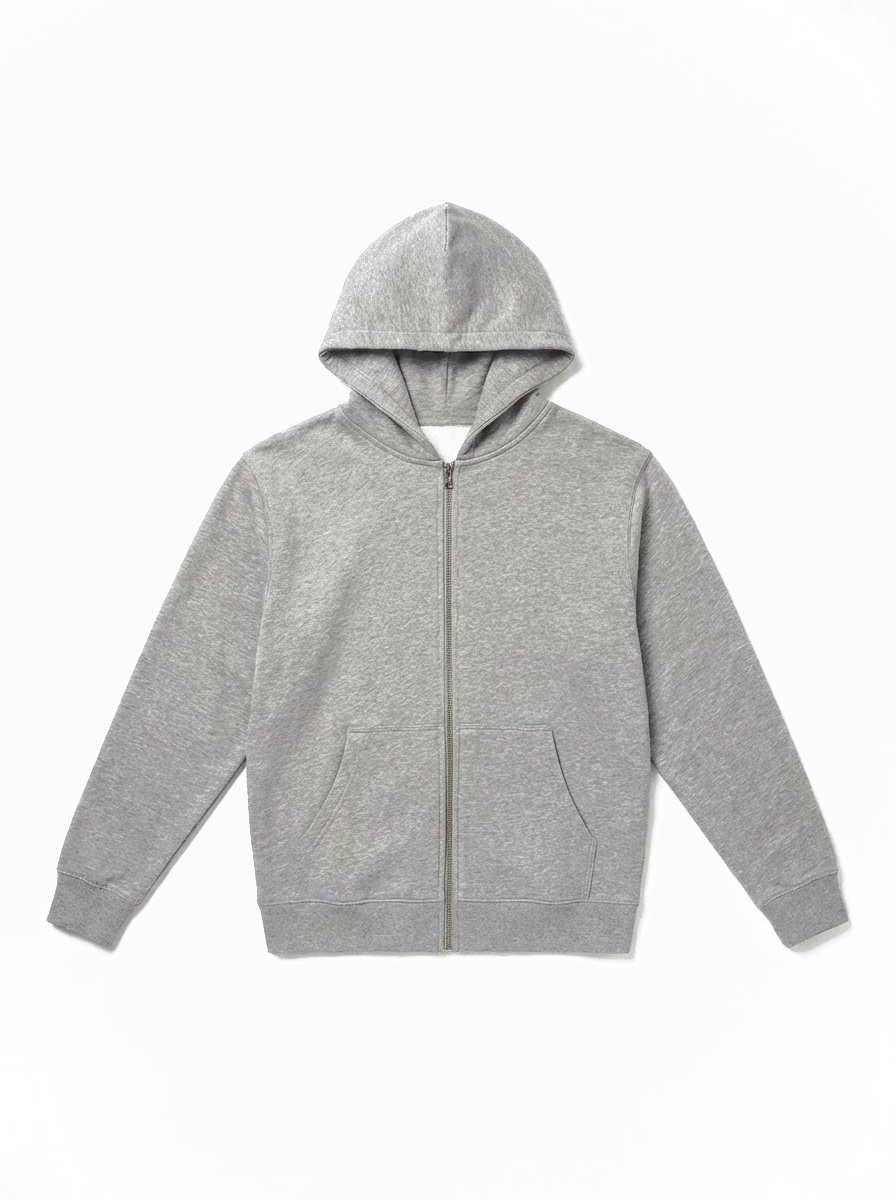
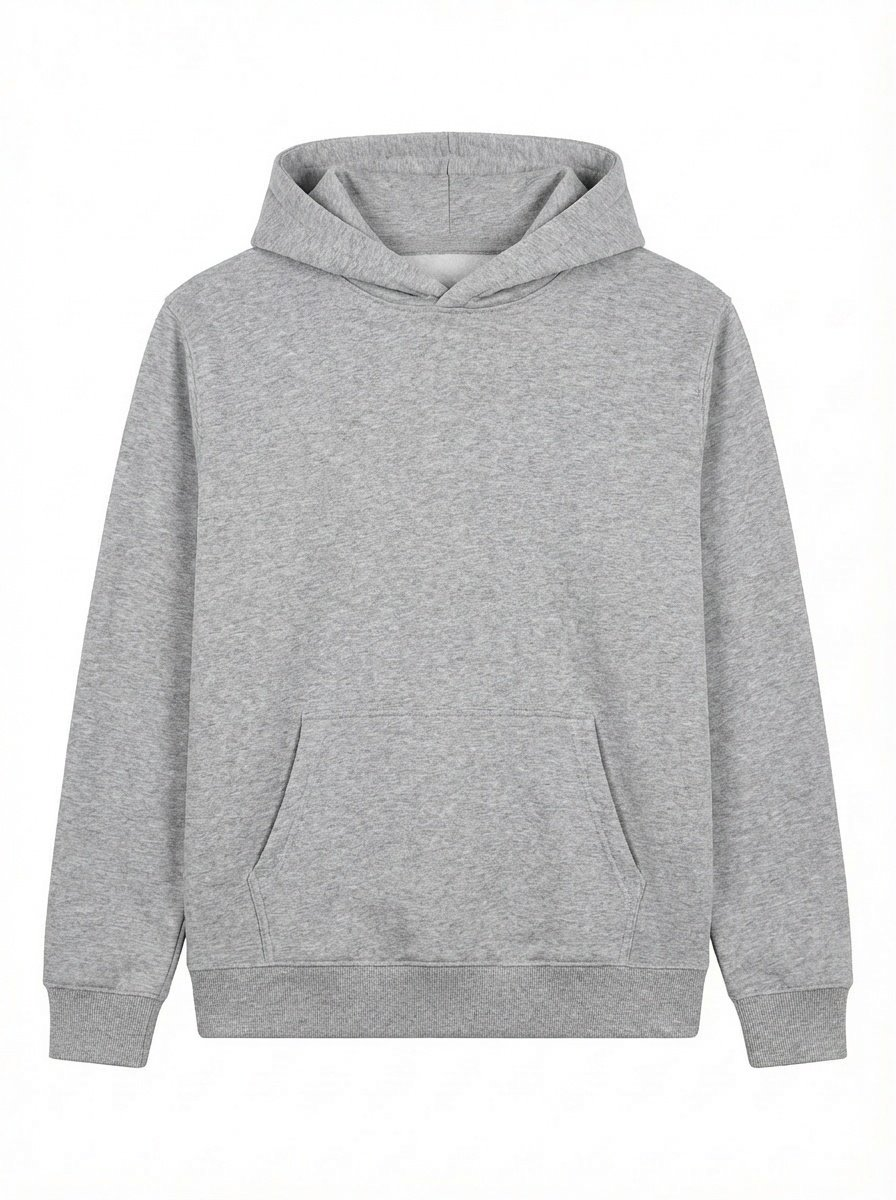
Major update: Save all Shopify images locally, fix pullover hoodie, tank hover flip, GNF sticker
- Replaced all Shopify CDN image URLs with local files (57 images saved permanently)
- Women's tanks (w1-w6) now have backImage for front/back hover flip (same as men's products)
- Fixed pullover hoodie builder images: replaced zip-up hoodie images with proper pullover (no zipper)
- Moved GNF sticker up 2 inches on landing page (bottom: 1% -> 22% desktop, 18% mobile)
- All product images optimized to 800x800px for web in /images/products/web/
- Removed Shopify CDN preconnect and CSP references
- Original Shopify images preserved in /images/products/shop/ as backup

diff --git a/src/data/catalog.ts b/src/data/catalog.ts
@@ -257,70 +257,70 @@ export const placements = [
 // type: 'garment' = clothing/hats (shows size→color flow), 'decal' = stickers/decals (shows expanded view)
 // MENS CLOTHING - T-Shirts and Hoodies
 export const mensClothing = [
-  { id: 'm1', title: 'MYOB Hoodie', vendor: 'Hillbilly Fightwear', price: '$50.00', priceNum: 50, image: 'https://cdn.shopify.com/s/files/1/2978/1770/files/Screenshot2025-12-05at1.50.03PM_6c519925-dfd5-4982-b8c8-c01f4c572668.png?v=1764960913', backImage: 'https://cdn.shopify.com/s/files/1/2978/1770/files/Screenshot2025-12-05at1.50.08PM_82ce9750-4bba-4e44-b533-666d0dc8c5e2.png?v=1764960913', type: 'garment', garmentType: 'hoodie', sizes: ['S','M','L','XL','XXL'], colors: ['Black','White','Grey'], styles: ['Pullover','Zip-Up'], graphicId: 'myob', backGraphicId: 'hfw-black-shadow' },
-  { id: 'm2', title: 'Thump a Stranger Hoodie', vendor: 'Hillbilly Fightwear', price: '$50.00', priceNum: 50, image: 'https://cdn.shopify.com/s/files/1/2978/1770/files/Screenshot2025-12-05at1.39.09PM.png?v=1764959976', backImage: 'https://cdn.shopify.com/s/files/1/2978/1770/files/Screenshot2025-12-05at1.39.02PM_7c0866cc-922e-4451-8e52-8ca719fa3503.png?v=1764960040', type: 'garment', garmentType: 'hoodie', sizes: ['S','M','L','XL','XXL'], colors: ['Black','White','Grey'], styles: ['Pullover','Zip-Up'], graphicId: 'thump-a-stranger', backGraphicId: 'hfw-black-shadow' },
-  { id: 'm3', title: 'T-Shirt - HFW Classic', vendor: 'Hillbilly Fightwear', price: '$30.00', priceNum: 30, image: 'https://cdn.shopify.com/s/files/1/2978/1770/products/hfwf.png?v=1541520222', backImage: 'https://cdn.shopify.com/s/files/1/2978/1770/products/hfwb.png?v=1541520223', type: 'garment', garmentType: 'tshirt', sizes: ['S','M','L','XL','XXL','XXXL'], colors: ['Black','White','Grey'], graphicId: 'hfw-logo' },
-  { id: 'm4', title: 'T-Shirt - YYCF', vendor: 'Hillbilly Fightwear', price: '$30.00', priceNum: 30, image: 'https://cdn.shopify.com/s/files/1/2978/1770/products/yycf.png?v=1541520348', backImage: 'https://cdn.shopify.com/s/files/1/2978/1770/products/yycb.png?v=1541520367', type: 'garment', garmentType: 'tshirt', sizes: ['S','M','L','XL','XXL','XXXL'], colors: ['Black','White','Grey'], graphicId: 'yycf-logo' },
-  { id: 'm5', title: 'T-Shirt - Fun Ride', vendor: 'Hillbilly Fightwear', price: '$30.00', priceNum: 30, image: 'https://cdn.shopify.com/s/files/1/2978/1770/products/funf.png?v=1541520465', backImage: 'https://cdn.shopify.com/s/files/1/2978/1770/products/funb.png?v=1541520466', type: 'garment', garmentType: 'tshirt', sizes: ['S','M','L','XL','XXL','XXXL'], colors: ['Black','White','Grey'], graphicId: 'fun-logo' },
-  { id: 'm6', title: 'T-Shirt - GNF', vendor: 'Hillbilly Fightwear', price: '$30.00', priceNum: 30, image: 'https://cdn.shopify.com/s/files/1/2978/1770/products/gnff.png?v=1541520600', backImage: 'https://cdn.shopify.com/s/files/1/2978/1770/products/gnfb.png?v=1541520603', type: 'garment', garmentType: 'tshirt', sizes: ['S','M','L','XL','XXL','XXXL'], colors: ['Black','White','Grey'], graphicId: 'gnf' },
-  { id: 'm7', title: 'T-Shirt - Human Cockfighter', vendor: 'Hillbilly Fightwear', price: '$30.00', priceNum: 30, image: 'https://cdn.shopify.com/s/files/1/2978/1770/products/hcff.png?v=1541521169', backImage: 'https://cdn.shopify.com/s/files/1/2978/1770/products/hcfb.png?v=1541521172', type: 'garment', garmentType: 'tshirt', sizes: ['S','M','L','XL','XXL','XXXL'], colors: ['Black','White','Grey'], graphicId: 'human-cockfighter' },
-  { id: 'm8', title: 'T-Shirt - Thump a Stranger', vendor: 'Hillbilly Fightwear', price: '$30.00', priceNum: 30, image: 'https://cdn.shopify.com/s/files/1/2978/1770/products/thumpf.png?v=1541521247', backImage: 'https://cdn.shopify.com/s/files/1/2978/1770/products/thumpb.png?v=1541521249', type: 'garment', garmentType: 'tshirt', sizes: ['S','M','L','XL','XXL','XXXL'], colors: ['Black','White','Grey'], graphicId: 'thump-a-stranger' },
-  { id: 'm9', title: 'T-Shirt - WIMB', vendor: 'Hillbilly Fightwear', price: '$30.00', priceNum: 30, image: 'https://cdn.shopify.com/s/files/1/2978/1770/products/wimb.png?v=1541521448', backImage: 'https://cdn.shopify.com/s/files/1/2978/1770/products/wimf.png?v=1541521460', type: 'garment', garmentType: 'tshirt', sizes: ['S','M','L','XL','XXL','XXXL'], colors: ['Black','White','Grey'], graphicId: 'wimb' },
-  { id: 'm10', title: 'T-Shirt - Cling to Guns', vendor: 'Hillbilly Fightwear', price: '$30.00', priceNum: 30, image: 'https://cdn.shopify.com/s/files/1/2978/1770/products/FullSizeRender.jpg?v=1593877737', backImage: 'https://cdn.shopify.com/s/files/1/2978/1770/products/RenderedImage.jpg?v=1593877737', type: 'garment', garmentType: 'tshirt', sizes: ['S','M','L','XL','XXL','XXXL'], colors: ['Black','White','Grey'], graphicId: 'cling-to-guns' },
-  { id: 'm11', title: 'T-Shirt - MYOB', vendor: 'Hillbilly Fightwear', price: '$30.00', priceNum: 30, image: 'https://cdn.shopify.com/s/files/1/2978/1770/products/myobf_1a40e805-dc40-4499-a8f7-b35cb8876393.png?v=1544660076', backImage: 'https://cdn.shopify.com/s/files/1/2978/1770/products/myobb_a3a36653-97d2-48ba-a3ef-b2960ac5b092.png?v=1544660078', type: 'garment', garmentType: 'tshirt', sizes: ['S','M','L','XL','XXL','XXXL'], colors: ['Black','White','Grey'], graphicId: 'myob' },
+  { id: 'm1', title: 'MYOB Hoodie', vendor: 'Hillbilly Fightwear', price: '$50.00', priceNum: 50, image: '/images/products/web/m1-myob-hoodie-front.png', backImage: '/images/products/web/m1-myob-hoodie-back.png', type: 'garment', garmentType: 'hoodie', sizes: ['S','M','L','XL','XXL'], colors: ['Black','White','Grey'], styles: ['Pullover','Zip-Up'], graphicId: 'myob', backGraphicId: 'hfw-black-shadow' },
+  { id: 'm2', title: 'Thump a Stranger Hoodie', vendor: 'Hillbilly Fightwear', price: '$50.00', priceNum: 50, image: '/images/products/web/m2-thump-hoodie-front.png', backImage: '/images/products/web/m2-thump-hoodie-back.png', type: 'garment', garmentType: 'hoodie', sizes: ['S','M','L','XL','XXL'], colors: ['Black','White','Grey'], styles: ['Pullover','Zip-Up'], graphicId: 'thump-a-stranger', backGraphicId: 'hfw-black-shadow' },
+  { id: 'm3', title: 'T-Shirt - HFW Classic', vendor: 'Hillbilly Fightwear', price: '$30.00', priceNum: 30, image: '/images/products/web/m3-hfw-classic-front.png', backImage: '/images/products/web/m3-hfw-classic-back.png', type: 'garment', garmentType: 'tshirt', sizes: ['S','M','L','XL','XXL','XXXL'], colors: ['Black','White','Grey'], graphicId: 'hfw-logo' },
+  { id: 'm4', title: 'T-Shirt - YYCF', vendor: 'Hillbilly Fightwear', price: '$30.00', priceNum: 30, image: '/images/products/web/m4-yycf-front.png', backImage: '/images/products/web/m4-yycf-back.png', type: 'garment', garmentType: 'tshirt', sizes: ['S','M','L','XL','XXL','XXXL'], colors: ['Black','White','Grey'], graphicId: 'yycf-logo' },
+  { id: 'm5', title: 'T-Shirt - Fun Ride', vendor: 'Hillbilly Fightwear', price: '$30.00', priceNum: 30, image: '/images/products/web/m5-fun-ride-front.png', backImage: '/images/products/web/m5-fun-ride-back.png', type: 'garment', garmentType: 'tshirt', sizes: ['S','M','L','XL','XXL','XXXL'], colors: ['Black','White','Grey'], graphicId: 'fun-logo' },
+  { id: 'm6', title: 'T-Shirt - GNF', vendor: 'Hillbilly Fightwear', price: '$30.00', priceNum: 30, image: '/images/products/web/m6-gnf-front.png', backImage: '/images/products/web/m6-gnf-back.png', type: 'garment', garmentType: 'tshirt', sizes: ['S','M','L','XL','XXL','XXXL'], colors: ['Black','White','Grey'], graphicId: 'gnf' },
+  { id: 'm7', title: 'T-Shirt - Human Cockfighter', vendor: 'Hillbilly Fightwear', price: '$30.00', priceNum: 30, image: '/images/products/web/m7-hcf-front.png', backImage: '/images/products/web/m7-hcf-back.png', type: 'garment', garmentType: 'tshirt', sizes: ['S','M','L','XL','XXL','XXXL'], colors: ['Black','White','Grey'], graphicId: 'human-cockfighter' },
+  { id: 'm8', title: 'T-Shirt - Thump a Stranger', vendor: 'Hillbilly Fightwear', price: '$30.00', priceNum: 30, image: '/images/products/web/m8-thump-front.png', backImage: '/images/products/web/m8-thump-back.png', type: 'garment', garmentType: 'tshirt', sizes: ['S','M','L','XL','XXL','XXXL'], colors: ['Black','White','Grey'], graphicId: 'thump-a-stranger' },
+  { id: 'm9', title: 'T-Shirt - WIMB', vendor: 'Hillbilly Fightwear', price: '$30.00', priceNum: 30, image: '/images/products/web/m9-wimb-front.png', backImage: '/images/products/web/m9-wimb-back.png', type: 'garment', garmentType: 'tshirt', sizes: ['S','M','L','XL','XXL','XXXL'], colors: ['Black','White','Grey'], graphicId: 'wimb' },
+  { id: 'm10', title: 'T-Shirt - Cling to Guns', vendor: 'Hillbilly Fightwear', price: '$30.00', priceNum: 30, image: '/images/products/web/m10-cling-guns-front.png', backImage: '/images/products/web/m10-cling-guns-back.png', type: 'garment', garmentType: 'tshirt', sizes: ['S','M','L','XL','XXL','XXXL'], colors: ['Black','White','Grey'], graphicId: 'cling-to-guns' },
+  { id: 'm11', title: 'T-Shirt - MYOB', vendor: 'Hillbilly Fightwear', price: '$30.00', priceNum: 30, image: '/images/products/web/m11-myob-front.png', backImage: '/images/products/web/m11-myob-back.png', type: 'garment', garmentType: 'tshirt', sizes: ['S','M','L','XL','XXL','XXXL'], colors: ['Black','White','Grey'], graphicId: 'myob' },
   { id: 'm12', title: 'Staunch Properties - CHM Edition', vendor: 'Hillbilly Fightwear', price: '$30.00', priceNum: 30, image: '/images/products/chm-front-web.png', backImage: '/images/products/chm-back-web.png', type: 'garment', garmentType: 'tshirt', sizes: ['S','M','L','XL','XXL','XXXL'], colors: ['Black','White','Grey'], graphicId: 'staunch-chm' },
-  { id: 'm13', title: 'T-Shirt - Goodwood', vendor: 'Hillbilly Fightwear', price: '$30.00', priceNum: 30, image: 'https://cdn.shopify.com/s/files/1/2978/1770/products/Screen_Shot_2018-11-15_at_6.55.18_PM.png?v=1542327315', backImage: 'https://cdn.shopify.com/s/files/1/2978/1770/products/Screen_Shot_2018-11-15_at_6.55.30_PM.png?v=1542327348', type: 'garment', garmentType: 'tshirt', sizes: ['S','M','L','XL','XXL','XXXL'], colors: ['Black','White','Grey'] }
+  { id: 'm13', title: 'T-Shirt - Goodwood', vendor: 'Hillbilly Fightwear', price: '$30.00', priceNum: 30, image: '/images/products/web/m13-goodwood-front.png', backImage: '/images/products/web/m13-goodwood-back.png', type: 'garment', garmentType: 'tshirt', sizes: ['S','M','L','XL','XXL','XXXL'], colors: ['Black','White','Grey'] }
 ]
 
 // WOMENS CLOTHING - Tank Tops
 // Pink color option is available with garment preview images (pink-tinted variants)
 export const womensClothing = [
-  { id: 'w1', title: "Women's Tank - It's A Fun Ride", vendor: 'Hillbilly Fightwear', price: '$30.00', priceNum: 30, image: 'https://cdn.shopify.com/s/files/1/2978/1770/products/Screen_Shot_2019-04-30_at_11.20.06_PM.png?v=1556680844', type: 'garment', garmentType: 'tank-womens', sizes: ['S','M','L','XL'], colors: ['Black','White'], graphicId: 'fun-logo' },
-  { id: 'w2', title: "Women's Tank - HFW", vendor: 'Hillbilly Fightwear', price: '$30.00', priceNum: 30, image: 'https://cdn.shopify.com/s/files/1/2978/1770/products/Screen_Shot_2019-04-30_at_11.21.43_PM.png?v=1556681023', type: 'garment', garmentType: 'tank-womens', sizes: ['S','M','L','XL'], colors: ['Black','White'], graphicId: 'hfw-logo' },
-  { id: 'w3', title: "Women's Tank - Thump a Stranger", vendor: 'Hillbilly Fightwear', price: '$30.00', priceNum: 30, image: 'https://cdn.shopify.com/s/files/1/2978/1770/products/Screen_Shot_2019-04-30_at_11.25.19_PM.png?v=1556681368', type: 'garment', garmentType: 'tank-womens', sizes: ['S','M','L','XL'], colors: ['Black','White'], graphicId: 'thump-a-stranger' },
-  { id: 'w4', title: "Women's Tank - Thumpin Is Lovin", vendor: 'Hillbilly Fightwear', price: '$30.00', priceNum: 30, image: 'https://cdn.shopify.com/s/files/1/2978/1770/products/Screen_Shot_2019-04-30_at_11.25.41_PM.png?v=1556681516', type: 'garment', garmentType: 'tank-womens', sizes: ['S','M','L','XL'], colors: ['Black','White'], graphicId: 'thumpin-is-lovin-pink' },
-  { id: 'w5', title: "Women's Tank - Yes You Can", vendor: 'Hillbilly Fightwear', price: '$30.00', priceNum: 30, image: 'https://cdn.shopify.com/s/files/1/2978/1770/products/Screen_Shot_2019-04-30_at_11.33.06_PM.png?v=1556681691', type: 'garment', garmentType: 'tank-womens', sizes: ['S','M','L','XL'], colors: ['Black','White'], graphicId: 'yes-you-can' },
-  { id: 'w6', title: "Women's Tank - GNF", vendor: 'Hillbilly Fightwear', price: '$30.00', priceNum: 30, image: 'https://cdn.shopify.com/s/files/1/2978/1770/products/GNF_-_tank_-_10_15.jpg?v=1556681770', type: 'garment', garmentType: 'tank-womens', sizes: ['S','M','L','XL'], colors: ['Black','White'], graphicId: 'gnf' }
+  { id: 'w1', title: "Women's Tank - It's A Fun Ride", vendor: 'Hillbilly Fightwear', price: '$30.00', priceNum: 30, image: '/images/products/web/w1-fun-ride-tank.png', backImage: '/images/products/web/m5-fun-ride-back.png', type: 'garment', garmentType: 'tank-womens', sizes: ['S','M','L','XL'], colors: ['Black','White'], graphicId: 'fun-logo' },
+  { id: 'w2', title: "Women's Tank - HFW", vendor: 'Hillbilly Fightwear', price: '$30.00', priceNum: 30, image: '/images/products/web/w2-hfw-tank.png', backImage: '/images/products/web/m3-hfw-classic-back.png', type: 'garment', garmentType: 'tank-womens', sizes: ['S','M','L','XL'], colors: ['Black','White'], graphicId: 'hfw-logo' },
+  { id: 'w3', title: "Women's Tank - Thump a Stranger", vendor: 'Hillbilly Fightwear', price: '$30.00', priceNum: 30, image: '/images/products/web/w3-thump-tank.png', backImage: '/images/products/web/m8-thump-back.png', type: 'garment', garmentType: 'tank-womens', sizes: ['S','M','L','XL'], colors: ['Black','White'], graphicId: 'thump-a-stranger' },
+  { id: 'w4', title: "Women's Tank - Thumpin Is Lovin", vendor: 'Hillbilly Fightwear', price: '$30.00', priceNum: 30, image: '/images/products/web/w4-thumpin-tank.png', backImage: '/images/products/web/d7-back-thumpin.png', type: 'garment', garmentType: 'tank-womens', sizes: ['S','M','L','XL'], colors: ['Black','White'], graphicId: 'thumpin-is-lovin-pink' },
+  { id: 'w5', title: "Women's Tank - Yes You Can", vendor: 'Hillbilly Fightwear', price: '$30.00', priceNum: 30, image: '/images/products/web/w5-yesyoucan-tank.png', backImage: '/images/products/web/d10-back-yesyoucan.png', type: 'garment', garmentType: 'tank-womens', sizes: ['S','M','L','XL'], colors: ['Black','White'], graphicId: 'yes-you-can' },
+  { id: 'w6', title: "Women's Tank - GNF", vendor: 'Hillbilly Fightwear', price: '$30.00', priceNum: 30, image: '/images/products/web/w6-gnf-tank.png', backImage: '/images/products/web/m6-gnf-back.png', type: 'garment', garmentType: 'tank-womens', sizes: ['S','M','L','XL'], colors: ['Black','White'], graphicId: 'gnf' }
 ]
 
 // KIDS CLOTHING - Youth Hoodie
 export const kidsClothing = [
-  { id: 'k1', title: 'Youth Hoodie', vendor: 'Hillbilly Fightwear', price: '$50.00', priceNum: 50, image: 'https://cdn.shopify.com/s/files/1/2978/1770/files/Screenshot2025-12-05at1.50.03PM.png?v=1764960668', backImage: 'https://cdn.shopify.com/s/files/1/2978/1770/files/Screenshot2025-12-05at1.50.08PM.png?v=1764960670', type: 'garment', garmentType: 'hoodie', sizes: ['YS','YM','YL'], colors: ['Black','White','Grey'], styles: ['Pullover','Zip-Up'], graphicId: 'hfw-black-shadow', backGraphicId: 'hfw-logo' }
+  { id: 'k1', title: 'Youth Hoodie', vendor: 'Hillbilly Fightwear', price: '$50.00', priceNum: 50, image: '/images/products/web/k1-youth-hoodie-front.png', backImage: '/images/products/web/k1-youth-hoodie-back.png', type: 'garment', garmentType: 'hoodie', sizes: ['YS','YM','YL'], colors: ['Black','White','Grey'], styles: ['Pullover','Zip-Up'], graphicId: 'hfw-black-shadow', backGraphicId: 'hfw-logo' }
 ]
 
 // HATS - Trucker Hats and Beanies
 export const hats = [
-  { id: 'h1', title: 'Beanie', vendor: 'Hillbilly Fightwear', price: '$25.00', priceNum: 25, image: 'https://cdn.shopify.com/s/files/1/2978/1770/files/Screenshot2025-12-05at1.59.43PM.png?v=1764961239', type: 'garment', garmentType: 'beanie', sizes: ['One Size'], colors: ['Black','Grey','White'] },
-  { id: 'h2', title: 'Fitted Hat - GNF White', vendor: 'Hillbilly Fightwear', price: '$45.00', priceNum: 45, image: 'https://cdn.shopify.com/s/files/1/2978/1770/products/GNF_Hat_-white.jpg?v=1544660186', type: 'garment', garmentType: 'trucker-hat', sizes: ['S/M','L/XL'], colors: ['White'] },
-  { id: 'h3', title: 'Fitted Hat - GNF Black', vendor: 'Hillbilly Fightwear', price: '$45.00', priceNum: 45, image: 'https://cdn.shopify.com/s/files/1/2978/1770/products/GNF_Hat_site_pic.jpg?v=1544660239', type: 'garment', garmentType: 'trucker-hat', sizes: ['S/M','L/XL'], colors: ['Black'] },
-  { id: 'h4', title: 'Fitted Hat - Cockfighter', vendor: 'Hillbilly Fightwear', price: '$45.00', priceNum: 45, image: 'https://cdn.shopify.com/s/files/1/2978/1770/products/cockfighter_fitted.jpg?v=1556679360', type: 'garment', garmentType: 'trucker-hat', sizes: ['S/M','L/XL'], colors: ['Black'] },
-  { id: 'h5', title: 'Fitted Hat - HFW', vendor: 'Hillbilly Fightwear', price: '$45.00', priceNum: 45, image: 'https://cdn.shopify.com/s/files/1/2978/1770/products/HFW_fitted.jpg?v=1556679540', type: 'garment', garmentType: 'trucker-hat', sizes: ['S/M','L/XL'], colors: ['Black'] },
-  { id: 'h6', title: 'Adjustable Hat - Hard Hittin', vendor: 'Hillbilly Fightwear', price: '$35.00', priceNum: 35, image: 'https://cdn.shopify.com/s/files/1/2978/1770/products/IMG_6519.JPG?v=1559137929', type: 'garment', garmentType: 'trucker-hat', sizes: ['One Size'], colors: ['Black'] },
-  { id: 'h7', title: 'Adjustable Hat - Fun Ride', vendor: 'Hillbilly Fightwear', price: '$35.00', priceNum: 35, image: 'https://cdn.shopify.com/s/files/1/2978/1770/products/It_s_A_Fun_Ride_adjustable_trucker.jpg?v=1556678568', type: 'garment', garmentType: 'trucker-hat', sizes: ['One Size'], colors: ['Black','White'] },
-  { id: 'h8', title: 'Adjustable Hat - HFW', vendor: 'Hillbilly Fightwear', price: '$35.00', priceNum: 35, image: 'https://cdn.shopify.com/s/files/1/2978/1770/products/HFW_adjusted.jpg?v=1556679508', type: 'garment', garmentType: 'trucker-hat', sizes: ['One Size'], colors: ['Black'] },
-  { id: 'h9', title: 'Adjustable Hat - Cockfighter', vendor: 'Hillbilly Fightwear', price: '$35.00', priceNum: 35, image: 'https://cdn.shopify.com/s/files/1/2978/1770/products/cockfigher_adjustable.jpg?v=1556679321', type: 'garment', garmentType: 'trucker-hat', sizes: ['One Size'], colors: ['Black'] },
-  { id: 'h10', title: 'Adjustable Hat - GNF', vendor: 'Hillbilly Fightwear', price: '$35.00', priceNum: 35, image: 'https://cdn.shopify.com/s/files/1/2978/1770/products/GNF_adjustable_trucker.jpg?v=1556678861', type: 'garment', garmentType: 'trucker-hat', sizes: ['One Size'], colors: ['Black','White'] },
-  { id: 'h11', title: 'Adjustable Hat - Cockfighter Grey', vendor: 'Hillbilly Fightwear', price: '$35.00', priceNum: 35, image: 'https://cdn.shopify.com/s/files/1/2978/1770/products/IMG_4304.JPG?v=1559137530', type: 'garment', garmentType: 'trucker-hat', sizes: ['One Size'], colors: ['Grey'] },
-  { id: 'h12', title: 'Adjustable Hat - Cockfighter Black', vendor: 'Hillbilly Fightwear', price: '$35.00', priceNum: 35, image: 'https://cdn.shopify.com/s/files/1/2978/1770/products/IMG_1265.JPG?v=1559137825', type: 'garment', garmentType: 'trucker-hat', sizes: ['One Size'], colors: ['Black'] },
-  { id: 'h13', title: 'Fitted Hat - GNF Patriotic', vendor: 'Hillbilly Fightwear', price: '$45.00', priceNum: 45, image: 'https://cdn.shopify.com/s/files/1/2978/1770/products/IMG_9227.JPG?v=1559137116', type: 'garment', garmentType: 'trucker-hat', sizes: ['S/M','L/XL'], colors: ['Black'] },
+  { id: 'h1', title: 'Beanie', vendor: 'Hillbilly Fightwear', price: '$25.00', priceNum: 25, image: '/images/products/web/h1-beanie.png', type: 'garment', garmentType: 'beanie', sizes: ['One Size'], colors: ['Black','Grey','White'] },
+  { id: 'h2', title: 'Fitted Hat - GNF White', vendor: 'Hillbilly Fightwear', price: '$45.00', priceNum: 45, image: '/images/products/web/h2-gnf-white-fitted.png', type: 'garment', garmentType: 'trucker-hat', sizes: ['S/M','L/XL'], colors: ['White'] },
+  { id: 'h3', title: 'Fitted Hat - GNF Black', vendor: 'Hillbilly Fightwear', price: '$45.00', priceNum: 45, image: '/images/products/web/h3-gnf-black-fitted.png', type: 'garment', garmentType: 'trucker-hat', sizes: ['S/M','L/XL'], colors: ['Black'] },
+  { id: 'h4', title: 'Fitted Hat - Cockfighter', vendor: 'Hillbilly Fightwear', price: '$45.00', priceNum: 45, image: '/images/products/web/h4-cockfighter-fitted.png', type: 'garment', garmentType: 'trucker-hat', sizes: ['S/M','L/XL'], colors: ['Black'] },
+  { id: 'h5', title: 'Fitted Hat - HFW', vendor: 'Hillbilly Fightwear', price: '$45.00', priceNum: 45, image: '/images/products/web/h5-hfw-fitted.png', type: 'garment', garmentType: 'trucker-hat', sizes: ['S/M','L/XL'], colors: ['Black'] },
+  { id: 'h6', title: 'Adjustable Hat - Hard Hittin', vendor: 'Hillbilly Fightwear', price: '$35.00', priceNum: 35, image: '/images/products/web/h6-hard-hittin.png', type: 'garment', garmentType: 'trucker-hat', sizes: ['One Size'], colors: ['Black'] },
+  { id: 'h7', title: 'Adjustable Hat - Fun Ride', vendor: 'Hillbilly Fightwear', price: '$35.00', priceNum: 35, image: '/images/products/web/h7-fun-ride-adj.png', type: 'garment', garmentType: 'trucker-hat', sizes: ['One Size'], colors: ['Black','White'] },
+  { id: 'h8', title: 'Adjustable Hat - HFW', vendor: 'Hillbilly Fightwear', price: '$35.00', priceNum: 35, image: '/images/products/web/h8-hfw-adj.png', type: 'garment', garmentType: 'trucker-hat', sizes: ['One Size'], colors: ['Black'] },
+  { id: 'h9', title: 'Adjustable Hat - Cockfighter', vendor: 'Hillbilly Fightwear', price: '$35.00', priceNum: 35, image: '/images/products/web/h9-cockfighter-adj.png', type: 'garment', garmentType: 'trucker-hat', sizes: ['One Size'], colors: ['Black'] },
+  { id: 'h10', title: 'Adjustable Hat - GNF', vendor: 'Hillbilly Fightwear', price: '$35.00', priceNum: 35, image: '/images/products/web/h10-gnf-adj.png', type: 'garment', garmentType: 'trucker-hat', sizes: ['One Size'], colors: ['Black','White'] },
+  { id: 'h11', title: 'Adjustable Hat - Cockfighter Grey', vendor: 'Hillbilly Fightwear', price: '$35.00', priceNum: 35, image: '/images/products/web/h11-cockfighter-grey-adj.png', type: 'garment', garmentType: 'trucker-hat', sizes: ['One Size'], colors: ['Grey'] },
+  { id: 'h12', title: 'Adjustable Hat - Cockfighter Black', vendor: 'Hillbilly Fightwear', price: '$35.00', priceNum: 35, image: '/images/products/web/h12-cockfighter-black-adj.png', type: 'garment', garmentType: 'trucker-hat', sizes: ['One Size'], colors: ['Black'] },
+  { id: 'h13', title: 'Fitted Hat - GNF Patriotic', vendor: 'Hillbilly Fightwear', price: '$45.00', priceNum: 45, image: '/images/products/web/h13-gnf-patriotic-fitted.png', type: 'garment', garmentType: 'trucker-hat', sizes: ['S/M','L/XL'], colors: ['Black'] },
 ]
 
 // DECALS / STICKERS
 // image = local graphic for site display; backImage = Shopify CDN product photography
 export const decals = [
-  { id: 'd1', title: 'Decal - GNF', vendor: 'Hillbilly Fightwear', price: '$7.00', priceNum: 7, image: '/images/stickers/sticker-gnf.png?v=13', backImage: 'https://cdn.shopify.com/s/files/1/2978/1770/files/s10.png?v=1761931324', type: 'decal' },
-  { id: 'd2', title: 'Decal - Cling to Guns', vendor: 'Hillbilly Fightwear', price: '$7.00', priceNum: 7, image: '/images/stickers/sticker-your-neck.png?v=13', backImage: 'https://cdn.shopify.com/s/files/1/2978/1770/files/s1.png?v=1761930946', type: 'decal' },
-  { id: 'd3', title: 'Decal - Human Cockfighter', vendor: 'Hillbilly Fightwear', price: '$7.00', priceNum: 7, image: '/images/stickers/sticker-hcf.png?v=13', backImage: 'https://cdn.shopify.com/s/files/1/2978/1770/files/s2.png?v=1761931036', type: 'decal' },
-  { id: 'd4', title: 'Decal - Fun Ride', vendor: 'Hillbilly Fightwear', price: '$7.00', priceNum: 7, image: '/images/stickers/sticker-fun-ride.png?v=13', backImage: 'https://cdn.shopify.com/s/files/1/2978/1770/files/s3.png?v=1761931065', type: 'decal' },
-  { id: 'd5', title: 'Decal - Put It On Em', vendor: 'Hillbilly Fightwear', price: '$7.00', priceNum: 7, image: '/images/stickers/sticker-put-it-on-em.png?v=15', backImage: 'https://cdn.shopify.com/s/files/1/2978/1770/files/s4.png?v=1761931096', type: 'decal' },
-  { id: 'd6', title: 'Decal - Thump a Stranger', vendor: 'Hillbilly Fightwear', price: '$7.00', priceNum: 7, image: '/images/stickers/sticker-thump.png?v=13', backImage: 'https://cdn.shopify.com/s/files/1/2978/1770/files/s5.png?v=1761931143', type: 'decal' },
-  { id: 'd7', title: 'Decal - Yes You Can', vendor: 'Hillbilly Fightwear', price: '$7.00', priceNum: 7, image: '/images/stickers/sticker-yes-you-can.png?v=13', backImage: 'https://cdn.shopify.com/s/files/1/2978/1770/files/s6.png?v=1761931168', type: 'decal' },
-  { id: 'd8', title: 'Decal - Obama Tap', vendor: 'Hillbilly Fightwear', price: '$7.00', priceNum: 7, image: '/images/stickers/sticker-obama-tap.png?v=13', backImage: 'https://cdn.shopify.com/s/files/1/2978/1770/files/s7.png?v=1761931192', type: 'decal' },
-  { id: 'd9', title: 'Decal - CHM', vendor: 'Hillbilly Fightwear', price: '$7.00', priceNum: 7, image: '/images/stickers/sticker-cunt.png?v=13', backImage: 'https://cdn.shopify.com/s/files/1/2978/1770/files/s8_d2e4786c-9d02-4bc7-bd2a-dab7d55b7007.png?v=1761931285', type: 'decal' },
-  { id: 'd10', title: 'Decal - HFW', vendor: 'Hillbilly Fightwear', price: '$7.00', priceNum: 7, image: '/images/stickers/sticker-hfw.png?v=13', backImage: 'https://cdn.shopify.com/s/files/1/2978/1770/files/s9.png?v=1761931297', type: 'decal' },
+  { id: 'd1', title: 'Decal - GNF', vendor: 'Hillbilly Fightwear', price: '$7.00', priceNum: 7, image: '/images/stickers/sticker-gnf.png?v=13', backImage: '/images/products/web/d1-back-gnf.png', type: 'decal' },
+  { id: 'd2', title: 'Decal - Cling to Guns', vendor: 'Hillbilly Fightwear', price: '$7.00', priceNum: 7, image: '/images/stickers/sticker-your-neck.png?v=13', backImage: '/images/products/web/d2-back-hfw.png', type: 'decal' },
+  { id: 'd3', title: 'Decal - Human Cockfighter', vendor: 'Hillbilly Fightwear', price: '$7.00', priceNum: 7, image: '/images/stickers/sticker-hcf.png?v=13', backImage: '/images/products/web/d3-back-thump.png', type: 'decal' },
+  { id: 'd4', title: 'Decal - Fun Ride', vendor: 'Hillbilly Fightwear', price: '$7.00', priceNum: 7, image: '/images/stickers/sticker-fun-ride.png?v=13', backImage: '/images/products/web/d4-back-funride.png', type: 'decal' },
+  { id: 'd5', title: 'Decal - Put It On Em', vendor: 'Hillbilly Fightwear', price: '$7.00', priceNum: 7, image: '/images/stickers/sticker-put-it-on-em.png?v=15', backImage: '/images/products/web/d5-back-cockfighter.png', type: 'decal' },
+  { id: 'd6', title: 'Decal - Thump a Stranger', vendor: 'Hillbilly Fightwear', price: '$7.00', priceNum: 7, image: '/images/stickers/sticker-thump.png?v=13', backImage: '/images/products/web/d6-back-hcf.png', type: 'decal' },
+  { id: 'd7', title: 'Decal - Yes You Can', vendor: 'Hillbilly Fightwear', price: '$7.00', priceNum: 7, image: '/images/stickers/sticker-yes-you-can.png?v=13', backImage: '/images/products/web/d10-back-yesyoucan.png', type: 'decal' },
+  { id: 'd8', title: 'Decal - Obama Tap', vendor: 'Hillbilly Fightwear', price: '$7.00', priceNum: 7, image: '/images/stickers/sticker-obama-tap.png?v=13', backImage: '/images/products/web/d9-back-myob.png', type: 'decal' },
+  { id: 'd9', title: 'Decal - CHM', vendor: 'Hillbilly Fightwear', price: '$7.00', priceNum: 7, image: '/images/stickers/sticker-cunt.png?v=13', backImage: '/images/products/web/d8-back-chm.png', type: 'decal' },
+  { id: 'd10', title: 'Decal - HFW', vendor: 'Hillbilly Fightwear', price: '$7.00', priceNum: 7, image: '/images/stickers/sticker-hfw.png?v=13', backImage: '/images/products/web/d1-back-gnf.png', type: 'decal' },
   { id: 'd11', title: 'Decal - GNF Red/Blue', vendor: 'Hillbilly Fightwear', price: '$7.00', priceNum: 7, image: '/images/stickers/sticker-gnf-redblue.png?v=15', type: 'decal' },
-  { id: 'd12', title: 'Decal - Thumpin Is Lovin', vendor: 'Hillbilly Fightwear', price: '$7.00', priceNum: 7, image: '/images/stickers/sticker-thumpin-is-lovin.png?v=13', backImage: 'https://cdn.shopify.com/s/files/1/2978/1770/files/s11.png?v=1761931349', type: 'decal' },
-  { id: 'd13', title: 'Decal - Good for Community', vendor: 'Hillbilly Fightwear', price: '$7.00', priceNum: 7, image: '/images/stickers/sticker-community.png?v=13', backImage: 'https://cdn.shopify.com/s/files/1/2978/1770/files/g1.png?v=1762085215', type: 'decal' },
+  { id: 'd12', title: 'Decal - Thumpin Is Lovin', vendor: 'Hillbilly Fightwear', price: '$7.00', priceNum: 7, image: '/images/stickers/sticker-thumpin-is-lovin.png?v=13', backImage: '/images/products/web/d7-back-thumpin.png', type: 'decal' },
+  { id: 'd13', title: 'Decal - Good for Community', vendor: 'Hillbilly Fightwear', price: '$7.00', priceNum: 7, image: '/images/stickers/sticker-community.png?v=13', backImage: '/images/products/web/d11-back-community.png', type: 'decal' },
   { id: 'd14', title: 'Decals - Mind Yown Business', vendor: 'Hillbilly Fightwear', price: '$7.00', priceNum: 7, image: '/images/stickers/sticker-myob.png?v=15', type: 'decal' },
   { id: 'd15', title: 'Decal - HFW Logo', vendor: 'Hillbilly Fightwear', price: '$7.00', priceNum: 7, image: '/images/stickers/sticker-hfw-logo.png?v=1', type: 'decal' }
 ]

diff --git a/src/index.tsx b/src/index.tsx
@@ -38,7 +38,7 @@ app.use('*', async (c, next) => {
   // style-src uses 'unsafe-inline' WITHOUT a nonce - per CSP3 spec, 'unsafe-inline' is ignored
   // when a nonce/hash is present, so we deliberately omit the nonce from style-src.
   // Inline style injection is not a meaningful XSS vector; nonces protect scripts.
-  c.res.headers.set('Content-Security-Policy', `default-src 'self'; script-src 'self' 'nonce-${nonce}' 'unsafe-eval' https://cdn.jsdelivr.net https://cdnjs.cloudflare.com; style-src 'self' 'unsafe-inline' https://fonts.googleapis.com https://cdn.jsdelivr.net; img-src 'self' data: https: blob:; font-src 'self' https://fonts.gstatic.com https://cdn.jsdelivr.net; connect-src 'self' https://api.stripe.com https://cdn.shopify.com https://api.resend.com; frame-src 'self' https://js.stripe.com https://open.spotify.com https://anchor.fm; frame-ancestors *; object-src 'none'; base-uri 'self'; form-action 'self'; upgrade-insecure-requests`)
+  c.res.headers.set('Content-Security-Policy', `default-src 'self'; script-src 'self' 'nonce-${nonce}' 'unsafe-eval' https://cdn.jsdelivr.net https://cdnjs.cloudflare.com; style-src 'self' 'unsafe-inline' https://fonts.googleapis.com https://cdn.jsdelivr.net; img-src 'self' data: https: blob:; font-src 'self' https://fonts.gstatic.com https://cdn.jsdelivr.net; connect-src 'self' https://api.stripe.com https://api.resend.com; frame-src 'self' https://js.stripe.com https://open.spotify.com https://anchor.fm; frame-ancestors *; object-src 'none'; base-uri 'self'; form-action 'self'; upgrade-insecure-requests`)
   c.res.headers.set('X-Content-Type-Options', 'nosniff')
   c.res.headers.set('X-XSS-Protection', '1; mode=block')
   c.res.headers.set('Referrer-Policy', 'strict-origin-when-cross-origin')
@@ -173,7 +173,7 @@ app.get('/', (c) => {
   <!-- Preconnect for Performance -->
   <link rel="preconnect" href="https://fonts.googleapis.com">
   <link rel="preconnect" href="https://fonts.gstatic.com" crossorigin>
-  <link rel="preconnect" href="https://cdn.shopify.com">
+  <!-- Shopify CDN preconnect removed - all images now served locally -->
   <link rel="dns-prefetch" href="https://cdn.jsdelivr.net">
   
   <!-- Critical CSS Preload -->
@@ -1256,7 +1256,7 @@ app.get('/', (c) => {
 
     /* --- BOTTOM ROW --- */
     .sticker-collage .sticker-10 { bottom: 1%; left: 1%;   width: 203px; transform: rotate(-3deg);  --hover-rotate: rotate(-1deg); }  /* Community 156→203 (+30%) */
-    .sticker-collage .sticker-12 { bottom: 1%; right: 18%;  left: auto; width: 163px; transform: rotate(5deg);   --hover-rotate: rotate(2deg); }   /* GNF — moved to right side, 1" center-right of logo */
+    .sticker-collage .sticker-12 { bottom: 22%; right: 18%;  left: auto; width: 163px; transform: rotate(5deg);   --hover-rotate: rotate(2deg); }   /* GNF — moved up 2" (bottom 1→22%) and right side, 1" center-right of logo */
     .sticker-collage .sticker-13 { bottom: 1%; right: 30%; width: 203px; transform: rotate(4deg);   --hover-rotate: rotate(2deg); }   /* MYOB 156→203 (+30%) */
     .sticker-collage .sticker-14 { bottom: 1%; right: 1%;  width: 187px; transform: rotate(-5deg);  --hover-rotate: rotate(-2deg); }  /* Cunt 144→187 (+30%) */
 
@@ -1301,7 +1301,7 @@ app.get('/', (c) => {
       .sticker-collage .sticker-9  { top: 58%; right: 1%;  left: auto; width: 55px !important; }
       /* Bottom row — across the bottom, below buttons */
       .sticker-collage .sticker-10 { bottom: 1%; left: 1%;   width: 91px !important; }
-      .sticker-collage .sticker-12 { bottom: 1%; right: 15%;  left: auto; width: 72px !important; }
+      .sticker-collage .sticker-12 { bottom: 18%; right: 15%;  left: auto; width: 72px !important; }
       .sticker-collage .sticker-13 { bottom: 1%; right: 18%; left: auto; width: 91px !important; }
       .sticker-collage .sticker-14 { bottom: 1%; right: 1%;  left: auto; width: 85px !important; }
     }
